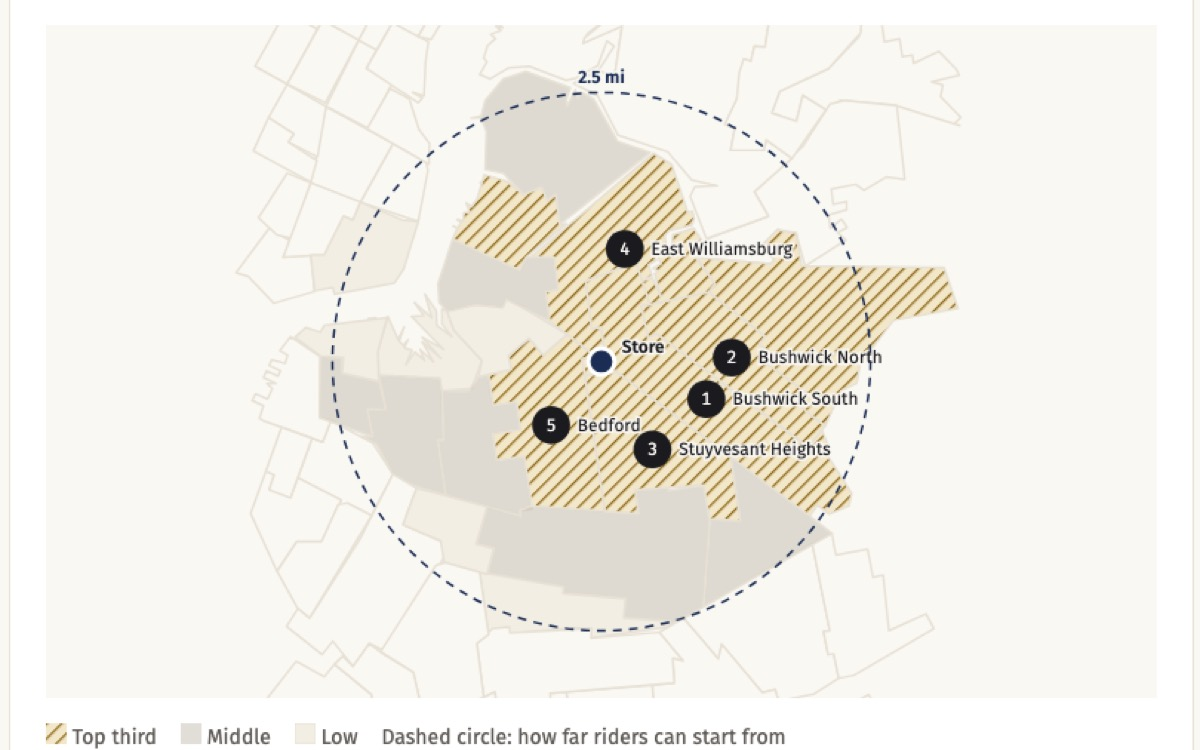
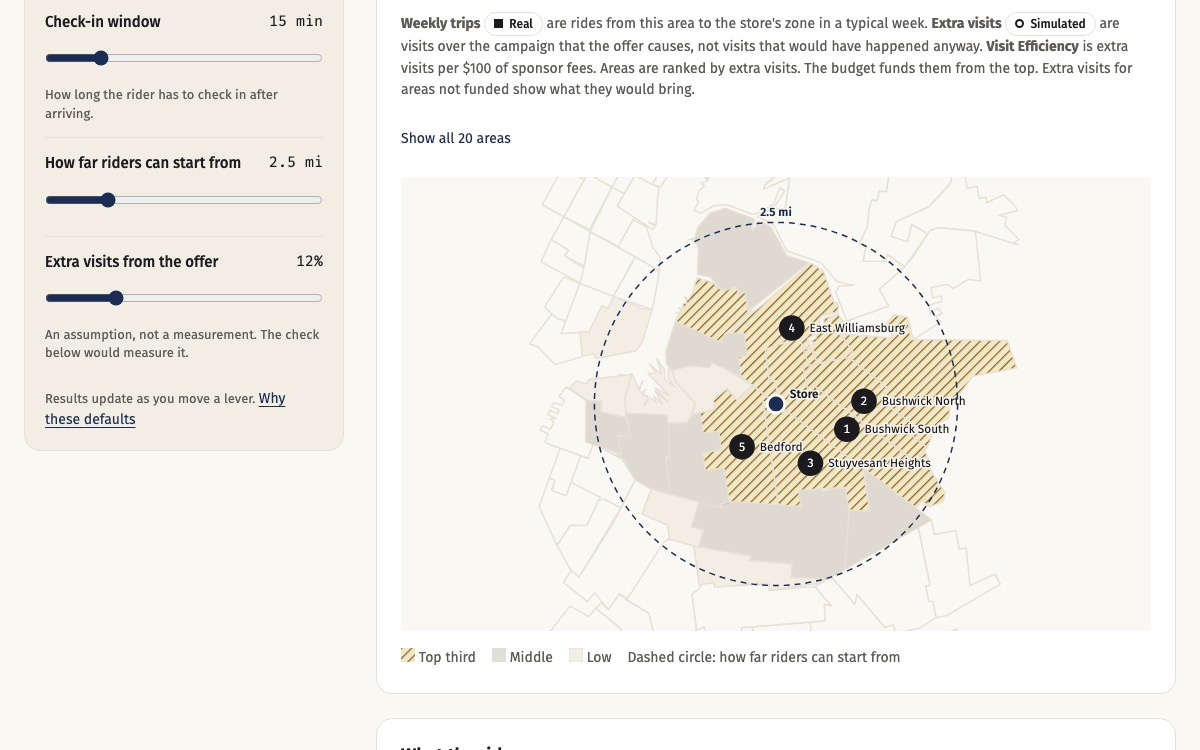
Ridelta: wider screenshot, link to homepage, copy tweak

diff --git a/index.html b/index.html
@@ -159,13 +159,13 @@
     </div>
 
     <div class="project flip">
-      <a class="img" href="https://bavafa.github.io/Ridelta/#/sponsor" aria-label="Open the Ridelta app"><img src="img/ridelta.jpg?v=2" alt="Ridelta Sponsor map ranking Brooklyn neighborhoods within 2.5 miles of a store by extra visits a sponsored ride would bring" loading="lazy"></a>
+      <a class="img" href="https://bavafa.github.io/Ridelta/" aria-label="Open the Ridelta app"><img src="img/ridelta.jpg?v=3" alt="Ridelta Sponsor page with sponsor levers and a map ranking Brooklyn neighborhoods within 2.5 miles of a store by extra visits a sponsored ride would bring" loading="lazy"></a>
       <div class="info">
         <p class="overline">Side project · marketplace analytics</p>
         <h3>Ridelta</h3>
-        <div class="desc">Ride and delivery apps pour money into discounts, and much of it goes to people who would have ordered anyway. Ridelta fixes that on real NYC trip data: send offers only to riders an offer actually moves, get nearby stores to pay for the visits they want, and run a test that shows whether the extra rides were real.</div>
+        <div class="desc">Ride and delivery apps pour money into discounts, and much of it goes to people who would have ordered anyway. Ridelta fixes that on NYC trip data: send offers only to riders an offer actually moves, get nearby stores to pay for the visits they want, and run a test that shows whether the extra rides were real.</div>
         <ul class="tech"><li>Uplift modeling</li><li>A/B and switchback tests</li><li>React</li><li>TypeScript</li></ul>
-        <p class="live"><a href="https://bavafa.github.io/Ridelta/#/sponsor"><span class="lg">Click the screenshot to try</span><span class="sm">Try</span> the live app ↗</a></p>
+        <p class="live"><a href="https://bavafa.github.io/Ridelta/"><span class="lg">Click the screenshot to try</span><span class="sm">Try</span> the live app ↗</a></p>
       </div>
     </div>
     <div class="project">
